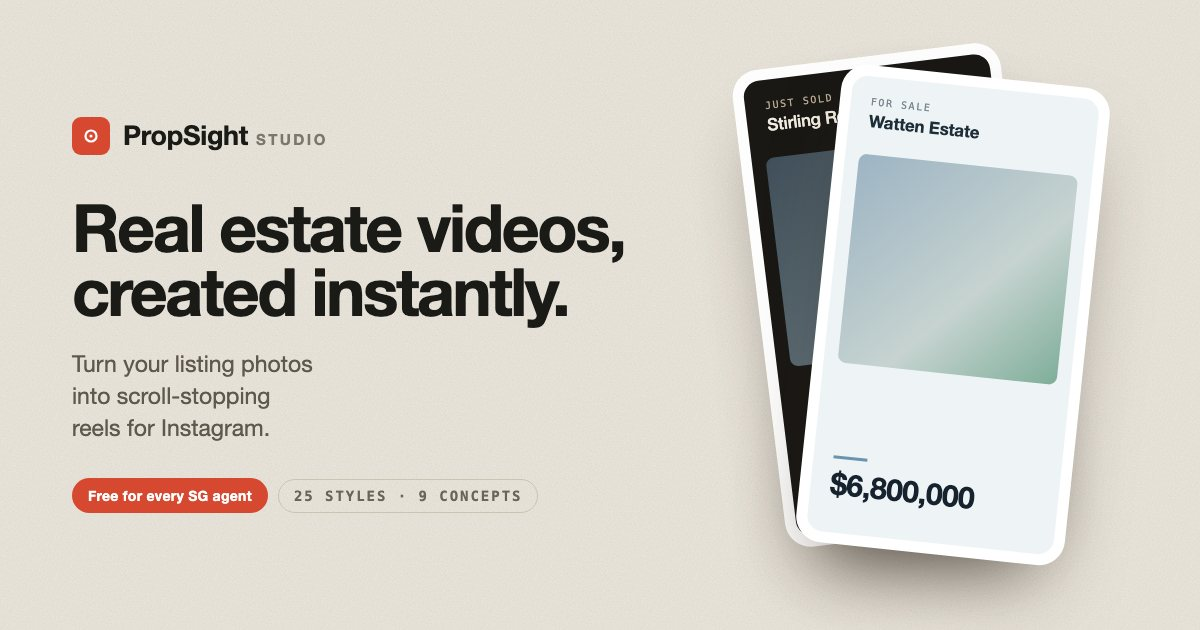
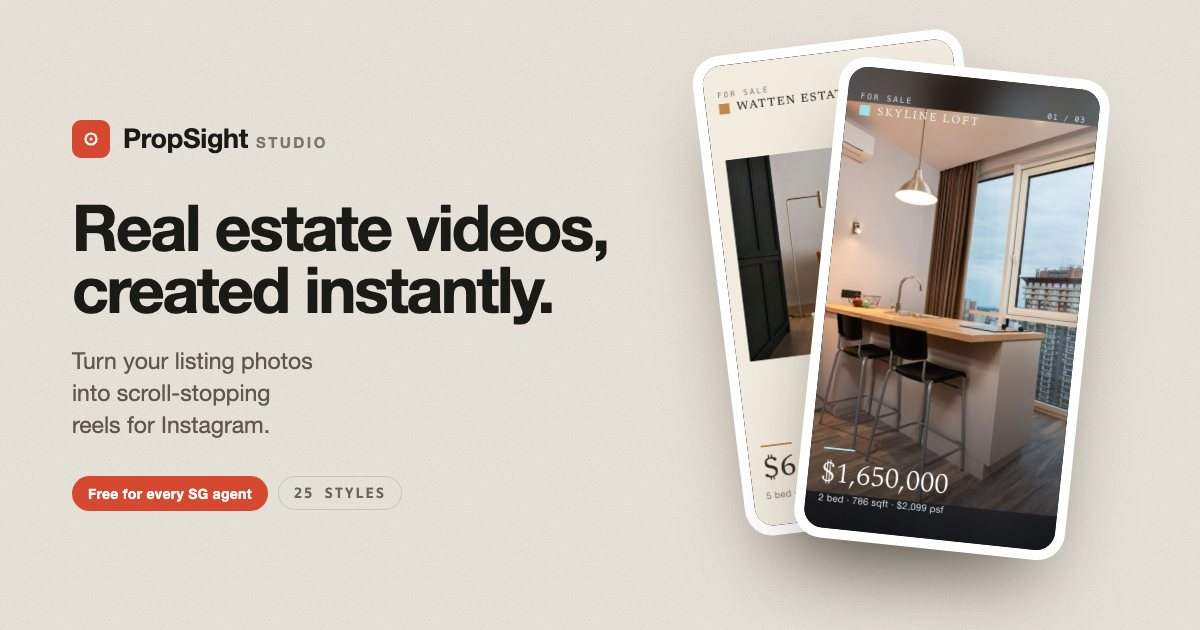
WhatsApp preview: use real rendered reels (was fake gradient mockups)
Vetted the link-preview card as a designer: the phone mockups showed empty
gradient placeholders where the property photo should be. Replaced with two
real rendered reels - a dark Skyline Loft (portrait, high-rise city view,
$1,650,000) front and a bright Watten Estate behind. Bumped og:image to
?v=2 so any cached preview refreshes.

Claude-Session: https://claude.ai/code/session_01KWn4GFsgifmwKVTkmH6Azh

diff --git a/index.html b/index.html
@@ -7,8 +7,8 @@
 <meta property="og:site_name" content="PropSight Studio">
 <meta property="og:title" content="PropSight Studio — Real estate videos, created instantly">
 <meta property="og:description" content="Turn your listing photos into scroll-stopping reels for Instagram. 25 styles, 9 concepts. Free for every SG agent.">
-<meta property="og:image" content="https://studio.propsight.sg/og.jpg">
-<meta property="og:image:secure_url" content="https://studio.propsight.sg/og.jpg">
+<meta property="og:image" content="https://studio.propsight.sg/og.jpg?v=2">
+<meta property="og:image:secure_url" content="https://studio.propsight.sg/og.jpg?v=2">
 <meta property="og:image:type" content="image/jpeg">
 <meta property="og:image:width" content="1200">
 <meta property="og:image:height" content="630">
@@ -16,7 +16,7 @@
 <meta name="twitter:card" content="summary_large_image">
 <meta name="twitter:title" content="PropSight Studio — Real estate videos, created instantly">
 <meta name="twitter:description" content="Turn your listing photos into scroll-stopping reels for Instagram. 25 styles, 9 concepts. Free for every SG agent.">
-<meta name="twitter:image" content="https://studio.propsight.sg/og.jpg">
+<meta name="twitter:image" content="https://studio.propsight.sg/og.jpg?v=2">
 <title>PropSight Studio — Real estate videos, created instantly</title>
 <style>
 *{box-sizing:border-box;margin:0;padding:0}